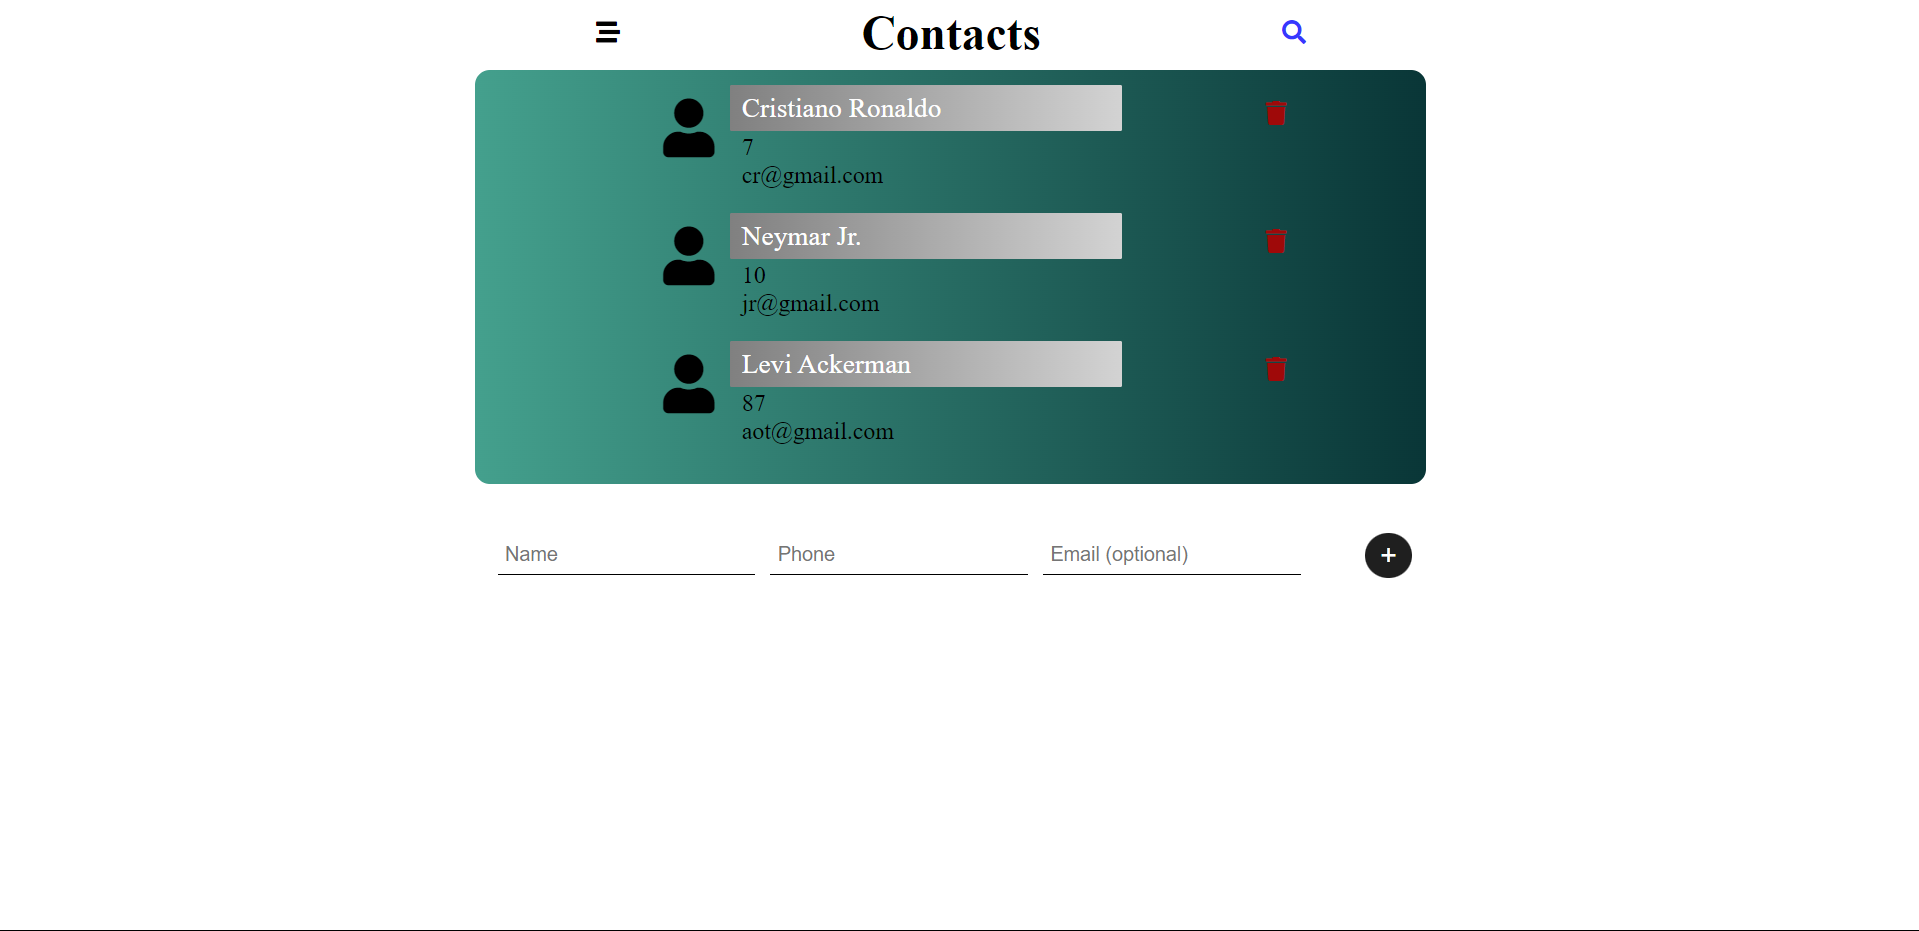
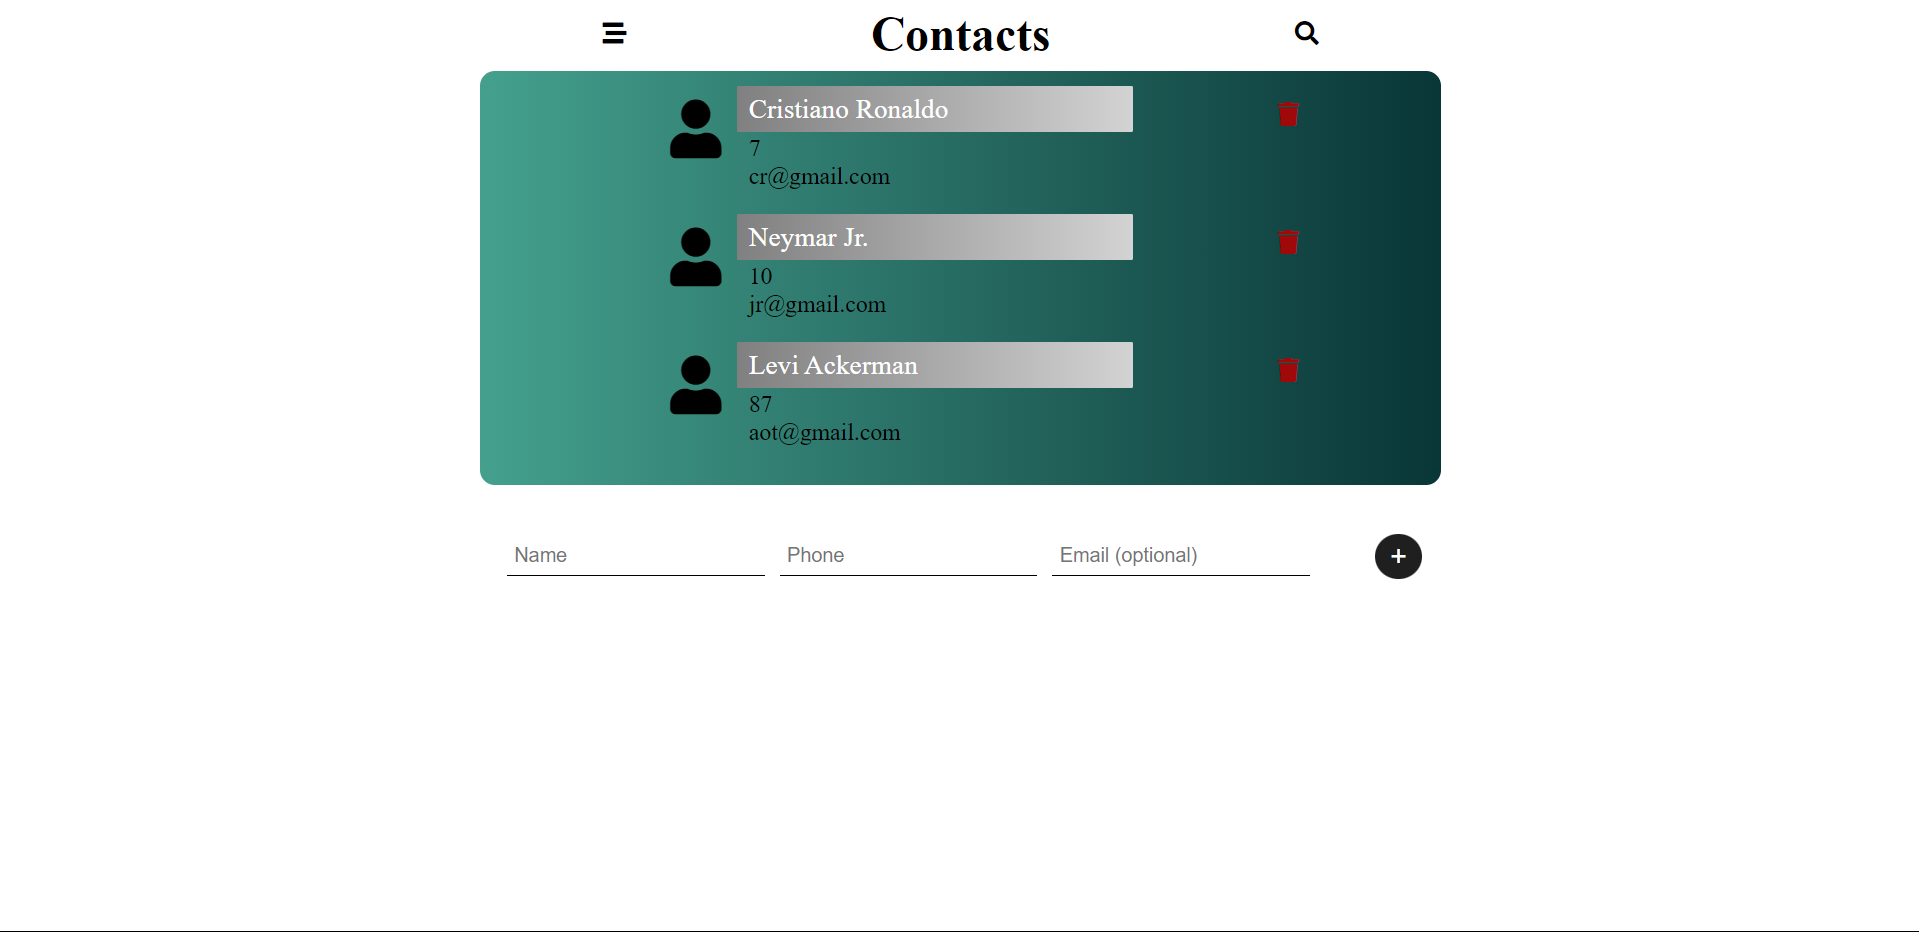
first commit

diff --git a/assets/css/style.css b/assets/css/style.css
@@ -1,12 +1,15 @@
 body{
     margin: 0;
+    padding: 0;
+}
+
+#ok{
     height: 99vh;
     width: 99%;
     display: flex;
     flex-direction: column;
     align-items: center;
 }
-
 #header{
     display: flex;
     justify-content: space-around;
@@ -17,14 +20,6 @@ body{
 }
 i{
     cursor: pointer;
-}
-
-#header i:nth-child(3){
-    color: rgb(55, 55, 254);
-}
-
-#page-heading{
-    text-align: center;
 }
 
 
@@ -73,7 +68,7 @@ li{
 }
 #number{
     width: 70%;
-    padding: 2px;
+    padding-top: 2px;
     padding-left: 8px;
     margin: 0;
 }
@@ -81,7 +76,7 @@ li{
     width: 70%;
     padding: 1px;
     padding-left: 8px;
-    margin: -2px 0 0 0;
+    margin: 0;
 }
 
 
